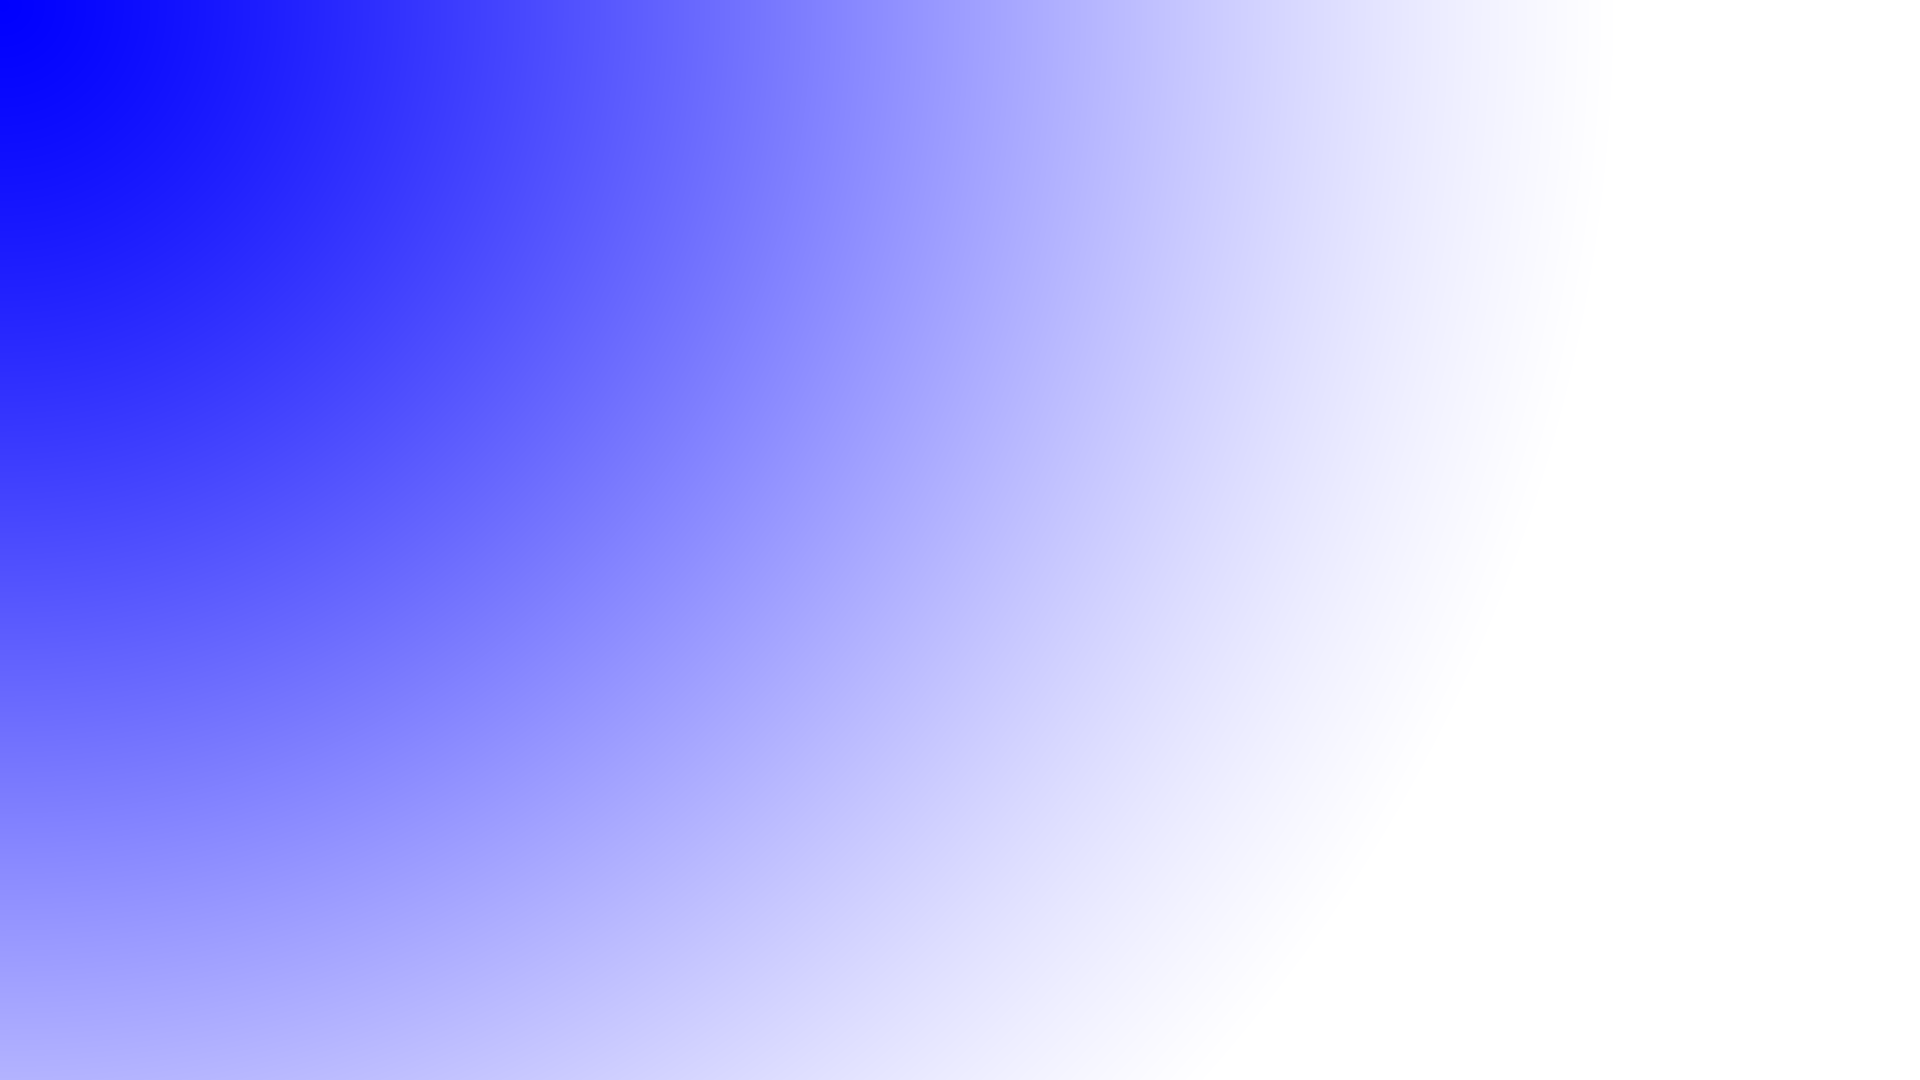
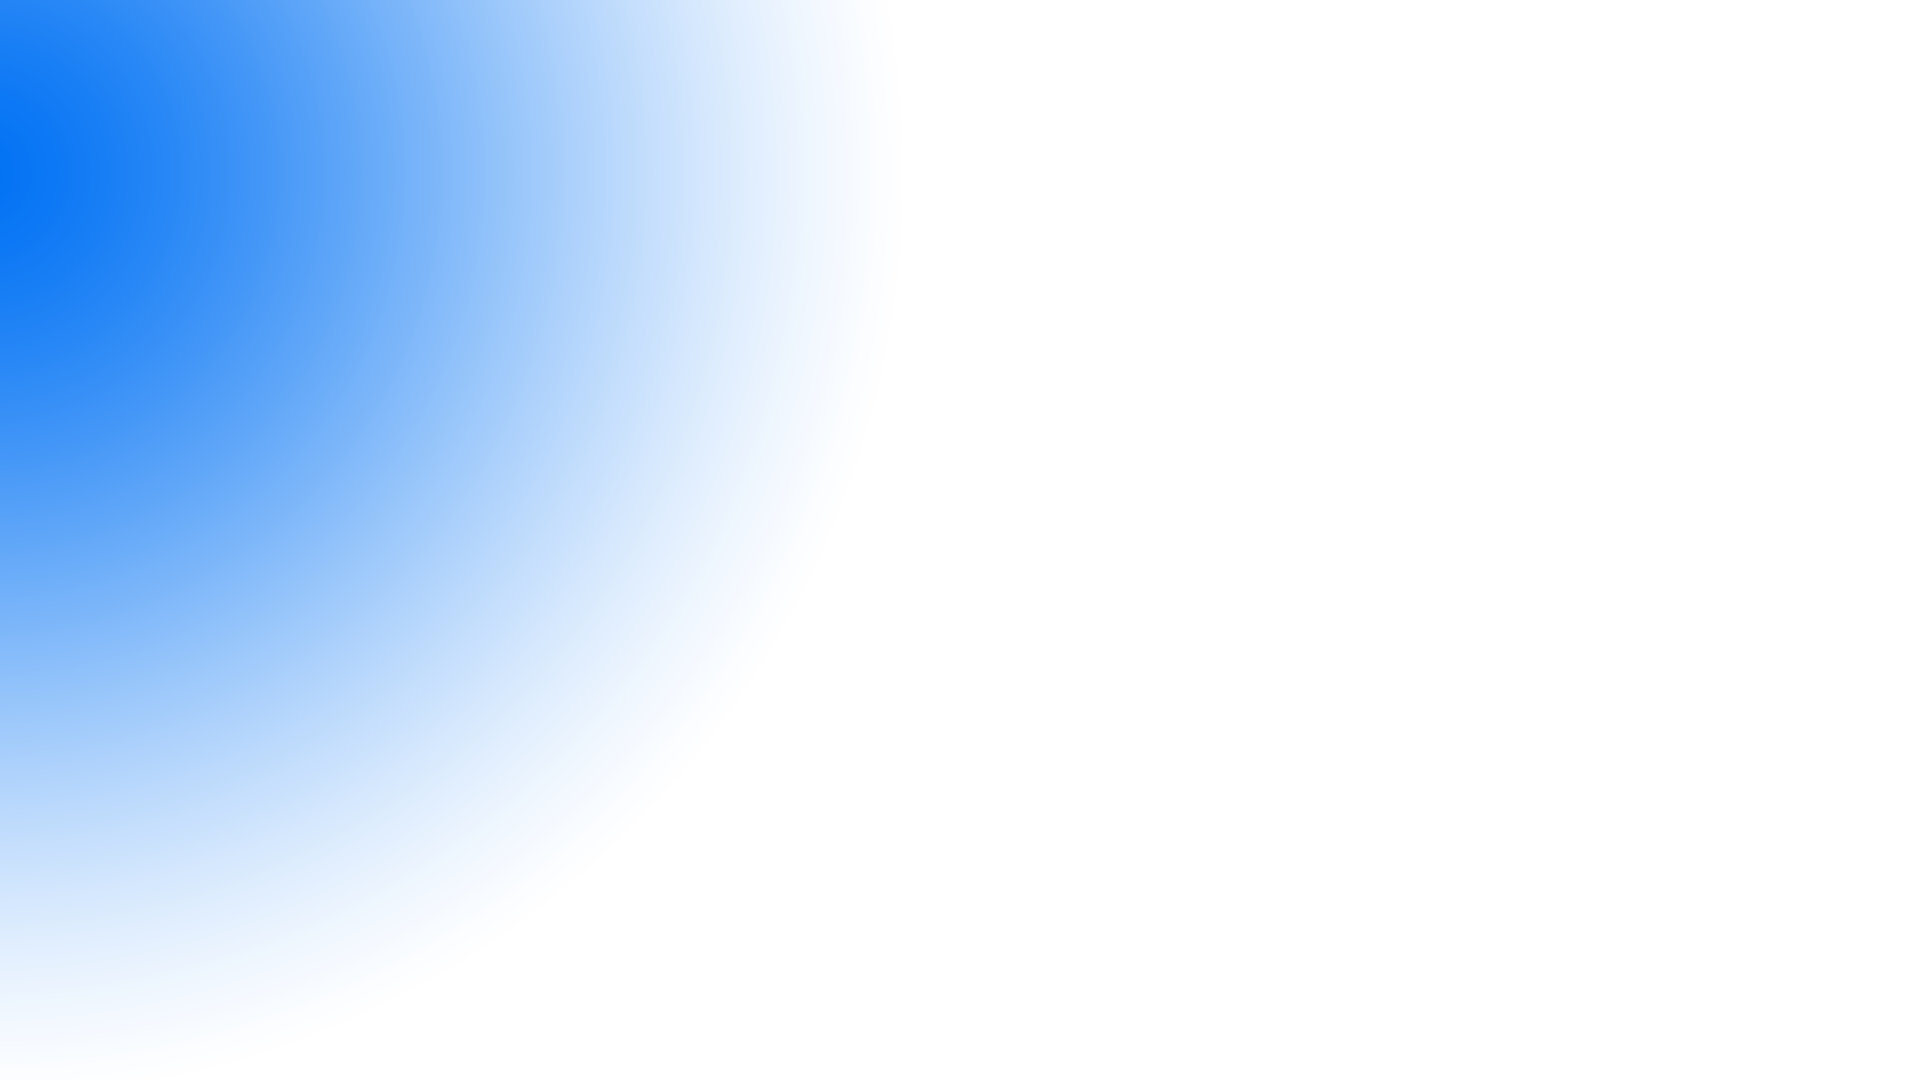
added top color strip and fixed background gradients

diff --git a/script.js b/script.js
@@ -65,6 +65,28 @@ function changeColor() {
 
   document.body.style.backgroundImage = current_background.join(",");
 
+  // topColor bar element:
+  let topShade;
+  switch (color) {
+    case "pink":
+      topShade = "rgb(201,54,242)";
+      break;
+    case "blue":
+      topShade = "rgb(0,113,244)";
+      break;
+    case "red":
+      topShade = "rgb(255,48,80)";
+      break;
+    case "green":
+      topShade = "rgb(0,152,27)";
+      break;
+    // default:
+  }
+  topColor.style.backgroundColor = `${topShade}`;
+  topColor.style.height = "3px";
+  topColor.style.width = "100%";
+
+
   let hue_degree;
   switch (color) {
     case "pink":

diff --git a/style.css b/style.css
@@ -47,16 +47,16 @@ body {
 }
 
 .blue {
-  background-color: blue;
+  background-color: rgb(0,113,244);
 }
 .pink {
-  background-color: hotpink;
+  background-color: rgb(201,54,242);
 }
 .red {
-  background-color: red;
+  background-color: rgb(255,48,80);
 }
 .green {
-  background-color: rgb(15, 207, 35);
+  background-color: rgb(15,207,35);
 }
 .white {
   background-color: white;

diff --git a/index.html b/index.html
@@ -22,8 +22,9 @@
   <body>
 
 
+  <div id="topColor"></div>
 
-<!-- NOTE NEEDS FIXING -->
+
 <div class="container-fluid"> <!--to add opacity to background -->
 
 
